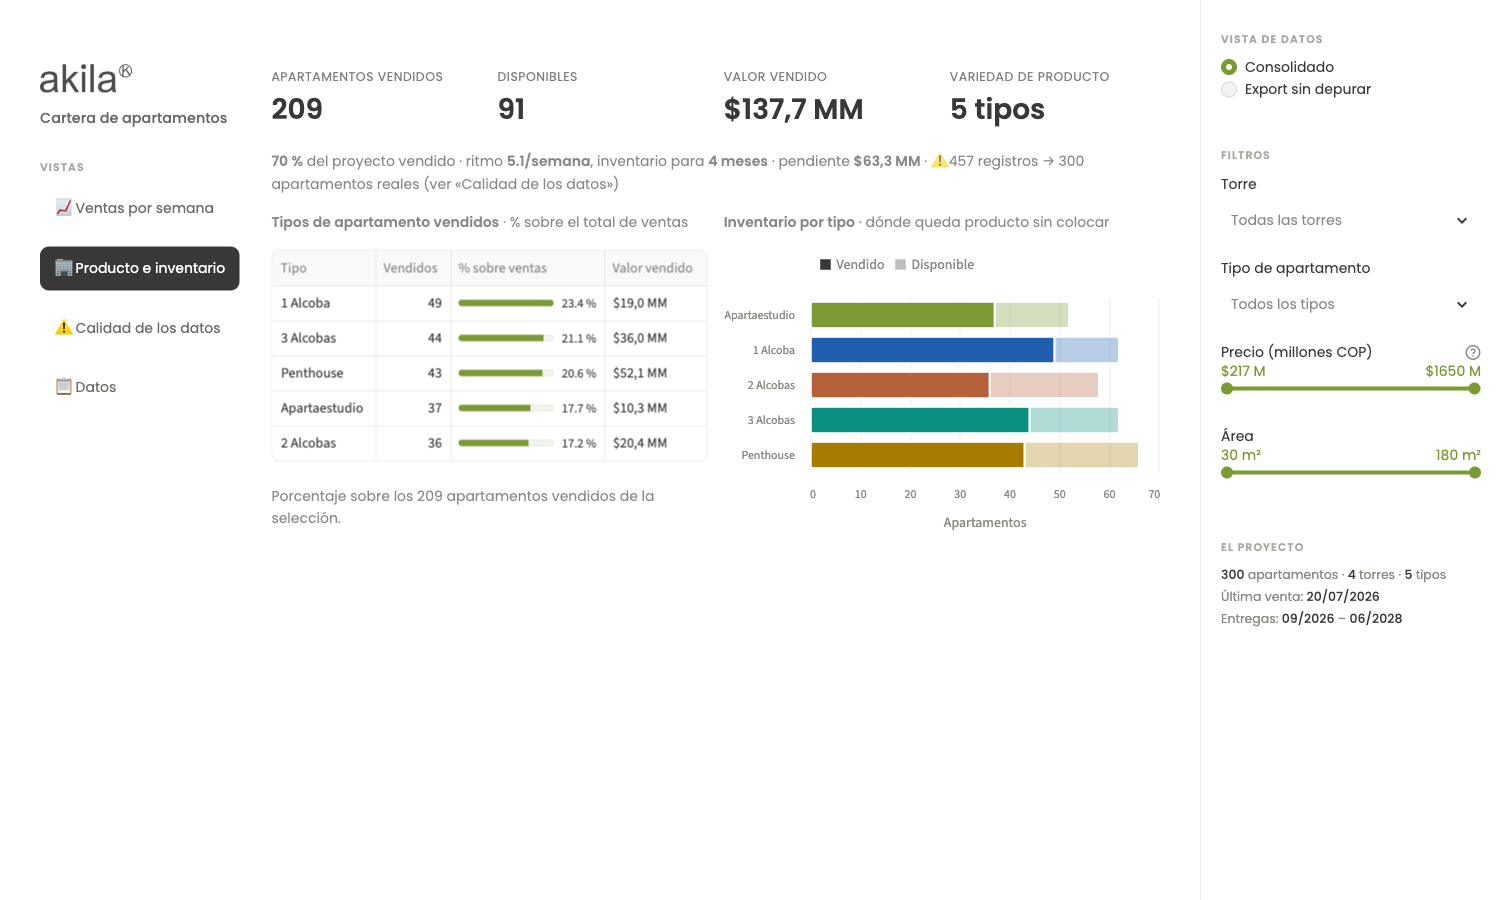
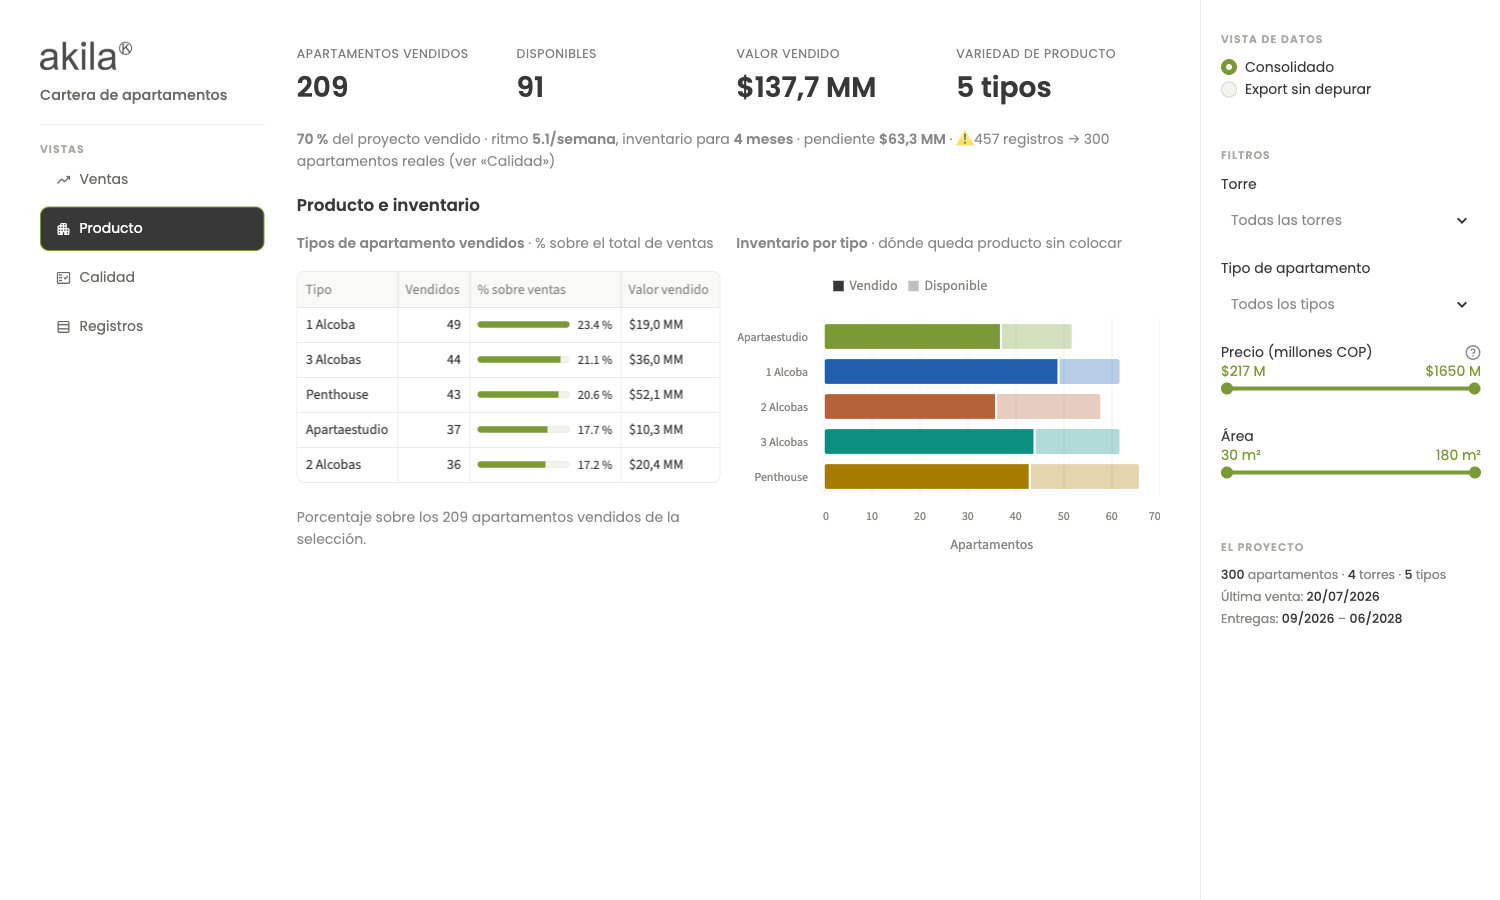
Pule la columna de navegación
- Iconos de Material Symbols en lugar de emoji: monocromáticos, así que toman
  el color del botón y acompañan al estado activo en vez de competir con él, y
  comparten trazo entre sí.
- Rótulos de una palabra. Con los largos, «Producto e inventario» no cabía en
  la columna a 1280 px y se recortaba a media palabra; el nombre completo pasa
  a encabezar cada vista, donde además explica qué se está mirando.
- El logo sube hasta el borde: la barra superior de Streamlit queda vacía al
  ocultar «Deploy» y el menú, pero seguía reservando su altura.
- Plegado, el panel ya no deja su filete dibujando una línea suelta sobre el
  contenido.

Dos fallos de alineación que solo se vieron midiendo: los contenedores del
rótulo se quedaban con el ancho del texto —cada uno centrado en el hueco que le
sobraba— y cada icono tenía su propio trazo, lo que desplazaba los rótulos hasta
ocho píxeles entre sí.

Recorrido completo con Playwright, clic por clic: las cuatro vistas, los dos
interruptores del gráfico, el contraste con el export sin depurar y el ciclo de
plegar y reabrir. Sin excepciones, sin scroll, sin desborde y sin rótulos
recortados en ninguno de los nueve pasos.

Changed region(s): [[0.0, 0.0311, 0.7667, 0.6222], [0.0307, 0.4044, 0.0613, 0.4356]]

diff --git a/ejercicio2_dashboard/dashboard/app.py b/ejercicio2_dashboard/dashboard/app.py
@@ -132,10 +132,15 @@ st.markdown(
         [data-testid="stAppViewContainer"] {{ flex-direction: row-reverse; }}
       }}
 
-      /* 3 rem, no menos: Streamlit fija una barra superior propia y con menos
-         margen las etiquetas de los indicadores quedan por debajo de ella. */
+      /* La barra superior de Streamlit queda vacía al ocultar «Deploy» y el
+         menú, pero sigue reservando su altura y empujaba el contenido casi
+         medio centímetro hacia abajo. Se recoge, y el margen del contenido baja
+         en consecuencia: la marca sube hasta el borde y el gráfico gana sitio.
+         El control para reabrir el panel no se pierde — va anclado al viewport,
+         no a esta barra. */
+      [data-testid="stHeader"] {{ height: 0; min-height: 0; }}
       .block-container {{
-        padding-top: 3rem;
+        padding-top: 1.6rem;
         padding-bottom: 1rem;
         padding-left: 2.5rem;
         padding-right: 2.5rem;
@@ -202,6 +207,9 @@ st.markdown(
            los rótulos se apilan letra a letra mientras dura la animación. */
         overflow-x: hidden;
       }}
+      /* Plegado, el panel conserva un píxel de ancho y su filete quedaba
+         dibujando una línea vertical suelta sobre el contenido. */
+      [data-testid="stSidebar"][aria-expanded="false"] {{ border-left: none; }}
       /* El contenido conserva su ancho aunque el panel se encoja: así se
          recorta limpiamente en lugar de recomponerse. */
       [data-testid="stSidebarUserContent"] {{ min-width: 260px; }}
@@ -221,8 +229,18 @@ st.markdown(
       [data-testid="stSidebarUserContent"] {{ padding-top: 0; }}
 
       /* El logo, como una firma: sin banda, sin recuadro y sin competir con
-         los datos. El peso visual del tablero está en las cifras. */
-      .cabecera {{ padding: 0 0 1.5rem; }}
+         los datos. El peso visual del tablero está en las cifras.
+         El margen negativo lo sube hasta la altura de los indicadores: el
+         relleno superior del contenedor está calculado para las etiquetas de
+         las cifras, y aquí dejaba la marca descolgada. */
+      /* Un filete corto bajo la marca separa identidad de navegación sin
+         partir la columna en dos bloques. Sin margen negativo: el contenedor
+         recorta lo que sobresale por arriba y el logo aparecía descabezado. */
+      .cabecera {{
+        padding: 0 0 1.1rem;
+        border-bottom: 1px solid #ececea;
+        margin-bottom: 1.3rem;
+      }}
       .marca-logo {{
         width: 92px;
         display: block;
@@ -257,6 +275,15 @@ st.markdown(
       }}
       .ficha strong {{ color: {GRIS_MARCA}; font-weight: 500; }}
 
+      /* Nombre completo de la vista activa, ahora que el rótulo de navegación
+         es de una sola palabra. */
+      .titulo-vista {{
+        font-size: 1.05rem;
+        font-weight: 600;
+        color: {GRIS_MARCA};
+        margin: 0.15rem 0 0.9rem;
+      }}
+
       /* --- Navegación entre vistas ----------------------------------------- */
       /* Botones alineados a la izquierda, no centrados como los de acción: se
          leen como una lista de secciones y no como cuatro botones sueltos. */
@@ -273,29 +300,54 @@ st.markdown(
          flotante, y un `>` deja de coincidir sin dar ningún error. */
       [data-testid="stMain"] [data-testid="stButton"] button {{
         justify-content: flex-start;
-        padding: 0.6rem 0.85rem;
+        gap: 0.6rem;
+        padding: 0.62rem 0.9rem;
         border-radius: 9px;
         font-size: 0.92rem;
         font-weight: 500;
         border: 1px solid transparent;
         transition: background 120ms ease, color 120ms ease;
       }}
-      /* Streamlit envuelve el rótulo en varios contenedores con clases
-         generadas, y todos se encogen al ancho del texto: por eso un rótulo
-         corto como «Datos» quedaba centrado mientras los largos parecían
-         alineados. Se estiran todos por descendencia, sin depender de esos
-         nombres de clase, que cambian entre versiones. */
-      [data-testid="stMain"] [data-testid="stButton"] button * {{
+      /* Los botones de navegación van más juntos entre sí que los elementos
+         normales de Streamlit: se leen como una lista, no como acciones
+         sueltas repartidas por la columna. */
+      [data-testid="stMain"] [data-testid="stVerticalBlock"]:has(> [data-testid="stElementContainer"] [data-testid="stButton"]) {{
+        gap: 0.3rem;
+      }}
+      /* Streamlit envuelve el rótulo en varios contenedores que se encogen al
+         ancho del texto: por eso un rótulo corto como «Datos» quedaba centrado
+         mientras los largos parecían alineados. Se estiran los envoltorios y se
+         reparte el espacio con flex — el icono conserva su tamaño y el texto se
+         queda con el resto. Estirar el icono también, como haría un selector
+         universal, lo deja separado del texto al otro extremo del botón. */
+      [data-testid="stMain"] [data-testid="stButton"] button > div,
+      [data-testid="stMain"] [data-testid="stButton"] button > div > span {{
         width: 100%;
       }}
-      /* El párrafo necesita el ancho completo además de la alineación: sin él
-         se encoge hasta el texto y un rótulo corto como «Datos» queda centrado
-         mientras los largos parecen alineados. `white-space: pre` conserva el
-         espacio que separa icono y texto. */
+      /* Ancho fijo para el icono: cada símbolo tiene su propio trazo y, sin
+         reservarles la misma caja, los rótulos arrancan hasta ocho píxeles
+         desplazados entre sí y la columna se ve descuadrada. */
+      [data-testid="stMain"] [data-testid="stButton"] button [data-testid="stIconMaterial"] {{
+        flex: 0 0 1.15rem;
+        width: 1.15rem;
+        text-align: center;
+      }}
+      /* `flex: 1 1 0` y no `auto`: con `auto` el contenedor se queda con el
+         ancho de su texto y cada rótulo acaba centrado en el hueco que le
+         sobra, así que ninguno arranca donde el de al lado. */
+      [data-testid="stMain"] [data-testid="stButton"] button [data-testid="stMarkdownContainer"] {{
+        flex: 1 1 0;
+        min-width: 0;
+      }}
+      /* El párrafo ocupa todo el contenedor y alinea a la izquierda. Si algún
+         rótulo no cupiera, se recorta con puntos suspensivos: partirlo en dos
+         líneas descuadraría la altura de los botones entre sí. */
       [data-testid="stMain"] [data-testid="stButton"] button p {{
         width: 100%;
         text-align: left;
-        white-space: pre;
+        white-space: nowrap;
+        overflow: hidden;
+        text-overflow: ellipsis;
       }}
       /* La vista activa: fondo de marca y peso, para que se vea de un vistazo
          en cuál estás sin tener que leer los cuatro rótulos. */
@@ -352,13 +404,23 @@ class Vista(NamedTuple):
     nombre: str
 
 
+# Iconos de Material Symbols, la familia que Streamlit ya trae. Frente a los
+# emoji tienen dos ventajas aquí: son monocromáticos —así toman el color del
+# botón y acompañan al estado activo en lugar de competir con él— y comparten
+# trazo entre sí, que es lo que hace que una lista de iconos se lea como un
+# conjunto y no como cuatro pegatinas.
+#
+# Nombres de una palabra: en una columna de navegación es lo que cabe sin
+# recortarse en pantallas estrechas, y el icono más el encabezado de cada vista
+# ya dan el contexto que un rótulo largo repetiría.
+#
 # El orden es el del recorrido natural: primero cómo va la venta, luego qué
 # producto es, después de dónde salen las cifras y por último el detalle.
 VISTAS = (
-    Vista("📈", "Ventas por semana"),
-    Vista("🏢", "Producto e inventario"),
-    Vista("⚠", "Calidad de los datos"),
-    Vista("📋", "Datos"),
+    Vista(":material/trending_up:", "Ventas"),
+    Vista(":material/apartment:", "Producto"),
+    Vista(":material/fact_check:", "Calidad"),
+    Vista(":material/table_rows:", "Registros"),
 )
 
 
@@ -394,7 +456,8 @@ def _navegacion() -> str:
         # encogen al ancho del texto, y cada rótulo acababa alineado en un
         # sitio distinto. Los nombres ya se explican solos.
         if st.button(
-            f"{vista.icono} {vista.nombre}",
+            vista.nombre,
+            icon=vista.icono,
             key=f"nav_{vista.nombre}",
             use_container_width=True,
             type="primary" if activa else "tertiary",
@@ -837,7 +900,9 @@ def main() -> None:
     # solo ofrece uno, y fabricar otro con CSS lo haría depender de nombres
     # internos. Como contrapartida, las columnas se apilan solas en pantallas
     # estrechas, que es justo el comportamiento que se quiere.
-    navegacion, contenido = st.columns([1, 4.2], gap="medium")
+    # 1,15 y no 1: con la columna más estrecha, «Producto e inventario» no
+    # cabía y se recortaba a media palabra.
+    navegacion, contenido = st.columns([1.15, 4.2], gap="medium")
 
     with navegacion:
         vista = _navegacion()
@@ -860,17 +925,28 @@ def main() -> None:
         if informe.hay_conflictos and not usar_crudo:
             partes.append(
                 f"⚠ {informe.filas_totales} registros → {informe.unidades_unicas} "
-                "apartamentos reales (ver «Calidad de los datos»)"
+                "apartamentos reales (ver «Calidad»)"
             )
         st.caption(" · ".join(partes))
 
+        # El rótulo de navegación es de una palabra, así que cada vista se
+        # presenta con su nombre completo: es donde se explica qué se está
+        # mirando sin ocupar sitio en la columna de la izquierda.
         if vista == VISTAS[0].nombre:
+            st.markdown('<div class="titulo-vista">Ventas por semana</div>',
+                        unsafe_allow_html=True)
             _pestana_ventas(df)
         elif vista == VISTAS[1].nombre:
+            st.markdown('<div class="titulo-vista">Producto e inventario</div>',
+                        unsafe_allow_html=True)
             _pestana_producto(df)
         elif vista == VISTAS[2].nombre:
+            st.markdown('<div class="titulo-vista">Calidad de los datos</div>',
+                        unsafe_allow_html=True)
             _pestana_calidad(informe, crudo)
         else:
+            st.markdown('<div class="titulo-vista">Registros de la cartera</div>',
+                        unsafe_allow_html=True)
             st.caption(f"{len(df)} apartamentos en la selección actual.")
             st.dataframe(
                 df, hide_index=True, use_container_width=True, height=380,

diff --git a/ejercicio2_dashboard/tests/test_interfaz.py b/ejercicio2_dashboard/tests/test_interfaz.py
@@ -111,6 +111,10 @@ def pagina(navegador, servidor):
         pagina = contexto.new_page()
         pagina.goto(servidor, wait_until="networkidle")
         pagina.wait_for_selector(".stVegaLiteChart", timeout=30_000)
+        # Hasta que las tipografías no están listas, un icono ocupa el ancho de
+        # su nombre en texto y desplaza lo que tiene al lado: medir antes da
+        # posiciones que no son las que verá nadie.
+        pagina.wait_for_function("() => document.fonts.status === 'loaded'", timeout=20_000)
         pagina.wait_for_timeout(ESPERA_RENDER)
         return pagina
 
@@ -200,8 +204,7 @@ class TestMaquetacion:
 
 
 class TestNavegacion:
-    ETIQUETAS = ["Ventas por semana", "Producto e inventario",
-                 "Calidad de los datos", "Datos"]
+    ETIQUETAS = ["Ventas", "Producto", "Calidad", "Registros"]
 
     @staticmethod
     def _botones(p):
@@ -238,6 +241,9 @@ class TestNavegacion:
 
         Sin estirarlos, un rótulo corto como «Datos» aparece centrado mientras
         los largos parecen alineados, y la columna se ve descuadrada.
+
+        Se admiten unos pocos píxeles de diferencia: cada icono tiene su propio
+        ancho de trazo y desplaza el texto de forma imperceptible.
         """
         p = pagina()
         posiciones = p.evaluate(
@@ -246,9 +252,22 @@ class TestNavegacion:
                  .filter(b => b.getBoundingClientRect().width > 0)
                  .map(b => Math.round(b.querySelector('p').getBoundingClientRect().left))"""
         )
-        assert len(set(posiciones)) == 1, (
-            f"Los rótulos empiezan en posiciones distintas: {posiciones}"
+        assert max(posiciones) - min(posiciones) <= 4, (
+            f"Los rótulos empiezan en posiciones muy distintas: {posiciones}"
         )
+
+    def test_los_iconos_de_navegacion_son_simbolos_y_no_texto(self, pagina):
+        """Cada vista lleva un icono de Material Symbols, no un emoji."""
+        p = pagina()
+        iconos = p.evaluate(
+            """() => [...document.querySelectorAll(
+                 '[data-testid="stMain"] [data-testid="stButton"] [data-testid="stIconMaterial"]')]
+                 .map(e => ({nombre: e.textContent.trim(),
+                             fuente: getComputedStyle(e).fontFamily}))"""
+        )
+        assert len(iconos) == len(self.ETIQUETAS)
+        rotos = [i["nombre"] for i in iconos if "ymbols" not in i["fuente"]]
+        assert rotos == [], f"Iconos sin su tipografía: {rotos}"
 
     def test_la_barra_lateral_se_pliega_y_se_puede_volver_a_abrir(self, pagina):
         """Plegar la barra no puede ser un viaje sin retorno.
